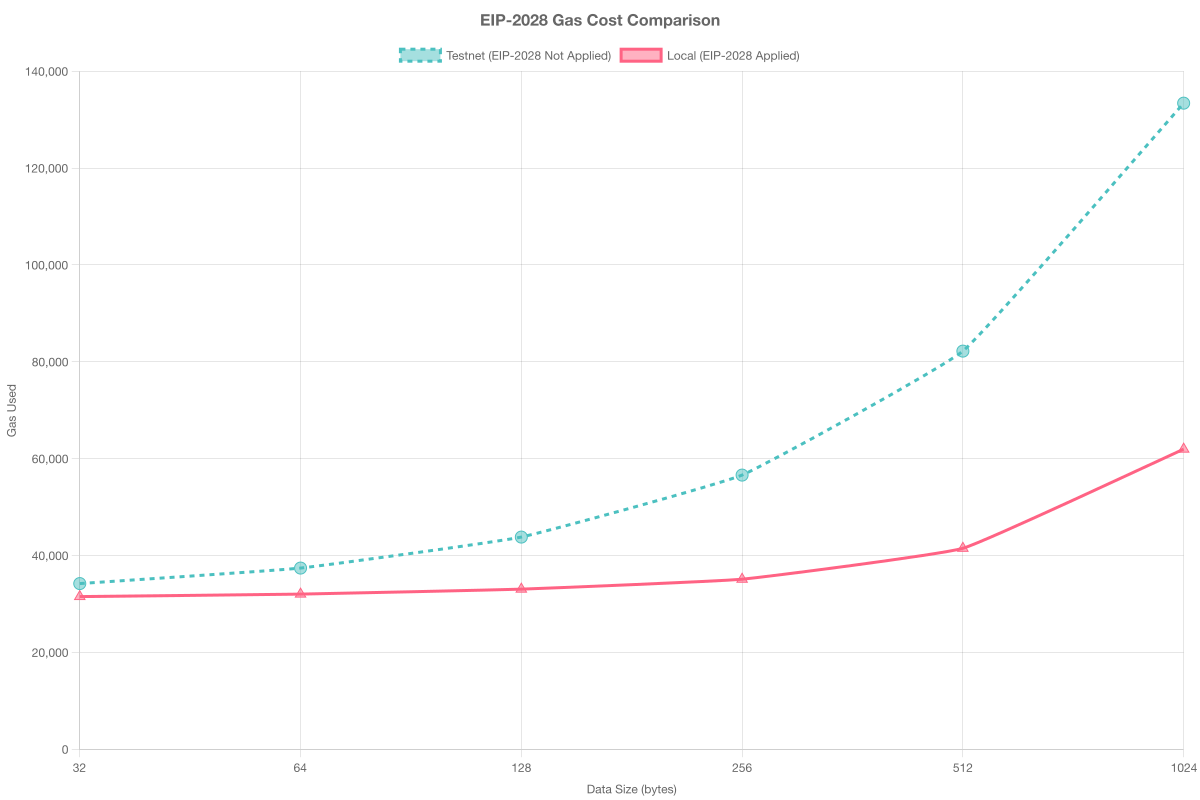
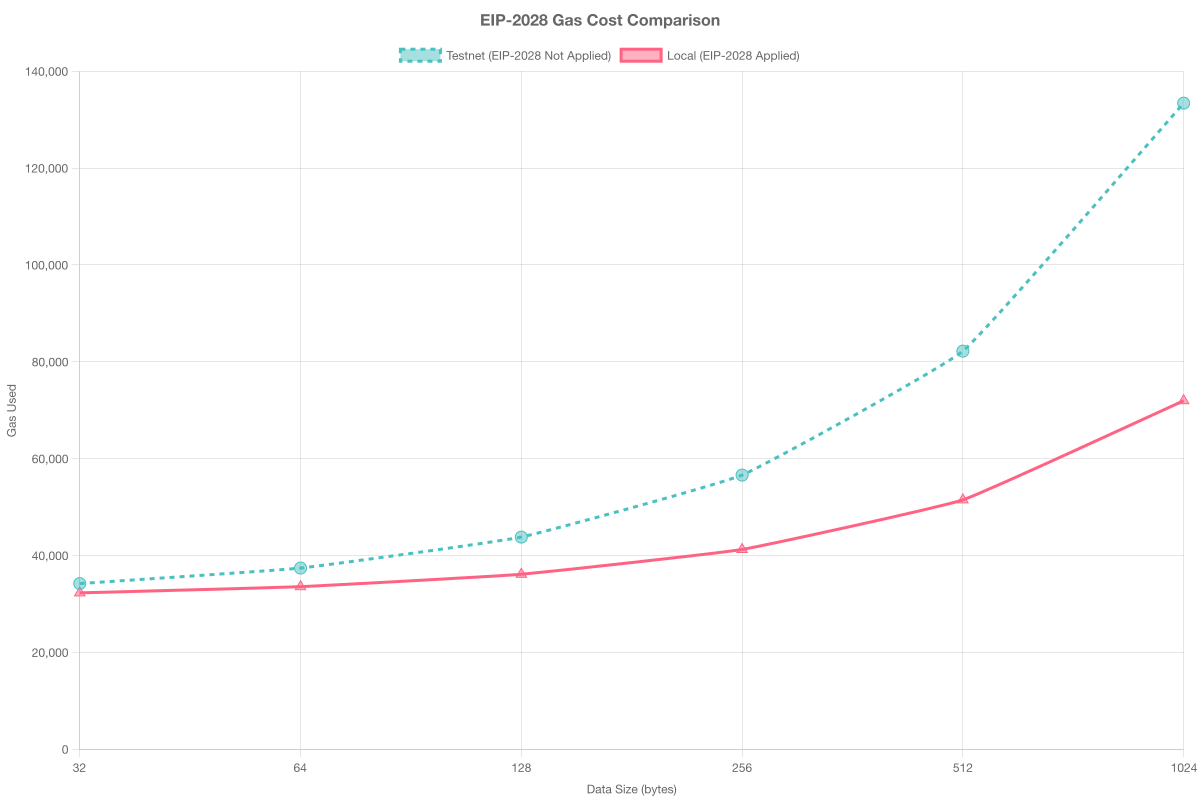
update test for eip-7623

diff --git a/src/eip2028/scripts/gas-validation.js b/src/eip2028/scripts/gas-validation.js
@@ -104,13 +104,13 @@ function calculateExpectedGas(txType, dataSize, networkName) {
   const params = GasParams[networkName];
  
   if (txType === 'accountUpdate') {
-    return params.TxGasAccountUpdate + params.AccountCreationGas;
+    return params.TxGasAccountUpdate + params.TxAccountCreationGasPerKey;
   }
   if (txType === 'feeDelegatedAccountUpdate') {
-    return params.TxGasAccountUpdate + params.AccountCreationGas + params.TxGasFeeDelegated;
+    return params.TxGasAccountUpdate + params.TxAccountCreationGasPerKey + params.TxGasFeeDelegated;
   }
   if (txType === 'feeDelegatedAccountUpdateWithRatio') {
-    return params.TxGasAccountUpdate + params.AccountCreationGas + params.TxGasFeeDelegatedWithRatio;
+    return params.TxGasAccountUpdate + params.TxAccountCreationGasPerKey + params.TxGasFeeDelegatedWithRatio;
   }
  
   if (dataSize > 0 && networkName === 'local' && !noPayloadTypes.includes(txType)) {
@@ -161,13 +161,20 @@ function calculateExpectedGas(txType, dataSize, networkName) {
       const feeDelegationCost = txType.includes('WithRatio') ? 
         params.TxGasFeeDelegatedWithRatio : 
         params.TxGasFeeDelegated;
-      return Math.max(gas + feeDelegationCost, floorDataGas);
+      // Add feeDelegationCost to both floor gas and standard gas calculation
+      return Math.max(gas + feeDelegationCost, floorDataGas + feeDelegationCost);
     } else {
       return Math.max(gas, floorDataGas);
     }
   }
  
   let gas = params.TxGas;
+ 
+  if (txType.includes('feeDelegated')) {
+    gas += txType.includes('WithRatio') ? 
+      params.TxGasFeeDelegatedWithRatio : 
+      params.TxGasFeeDelegated;
+  }
  
   return gas;
 }
